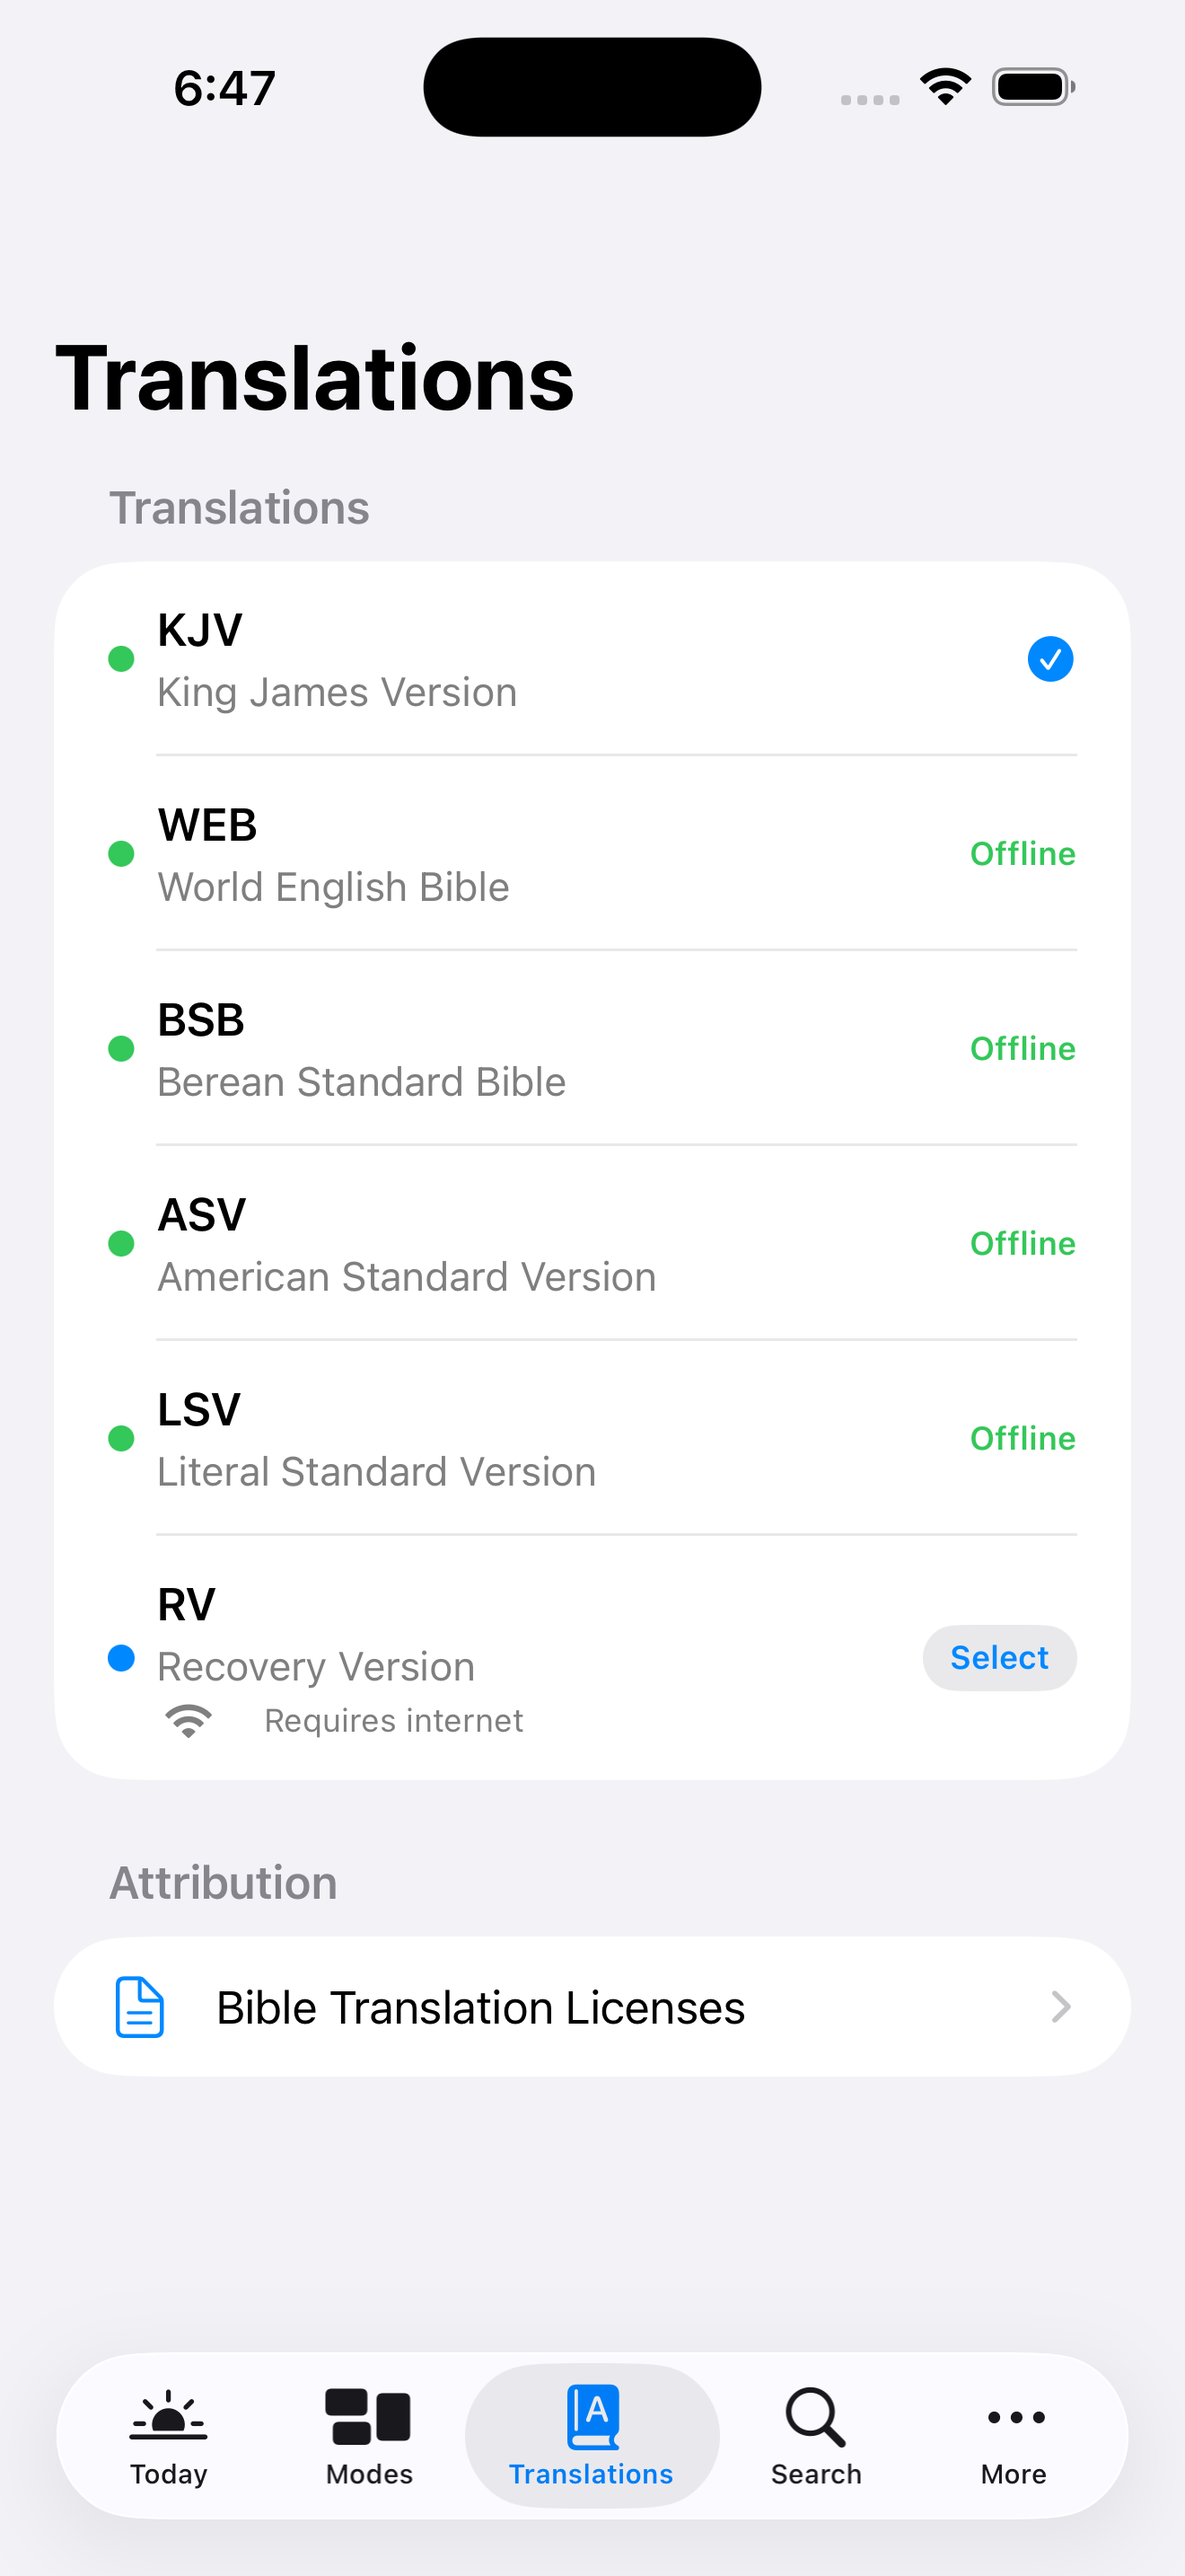
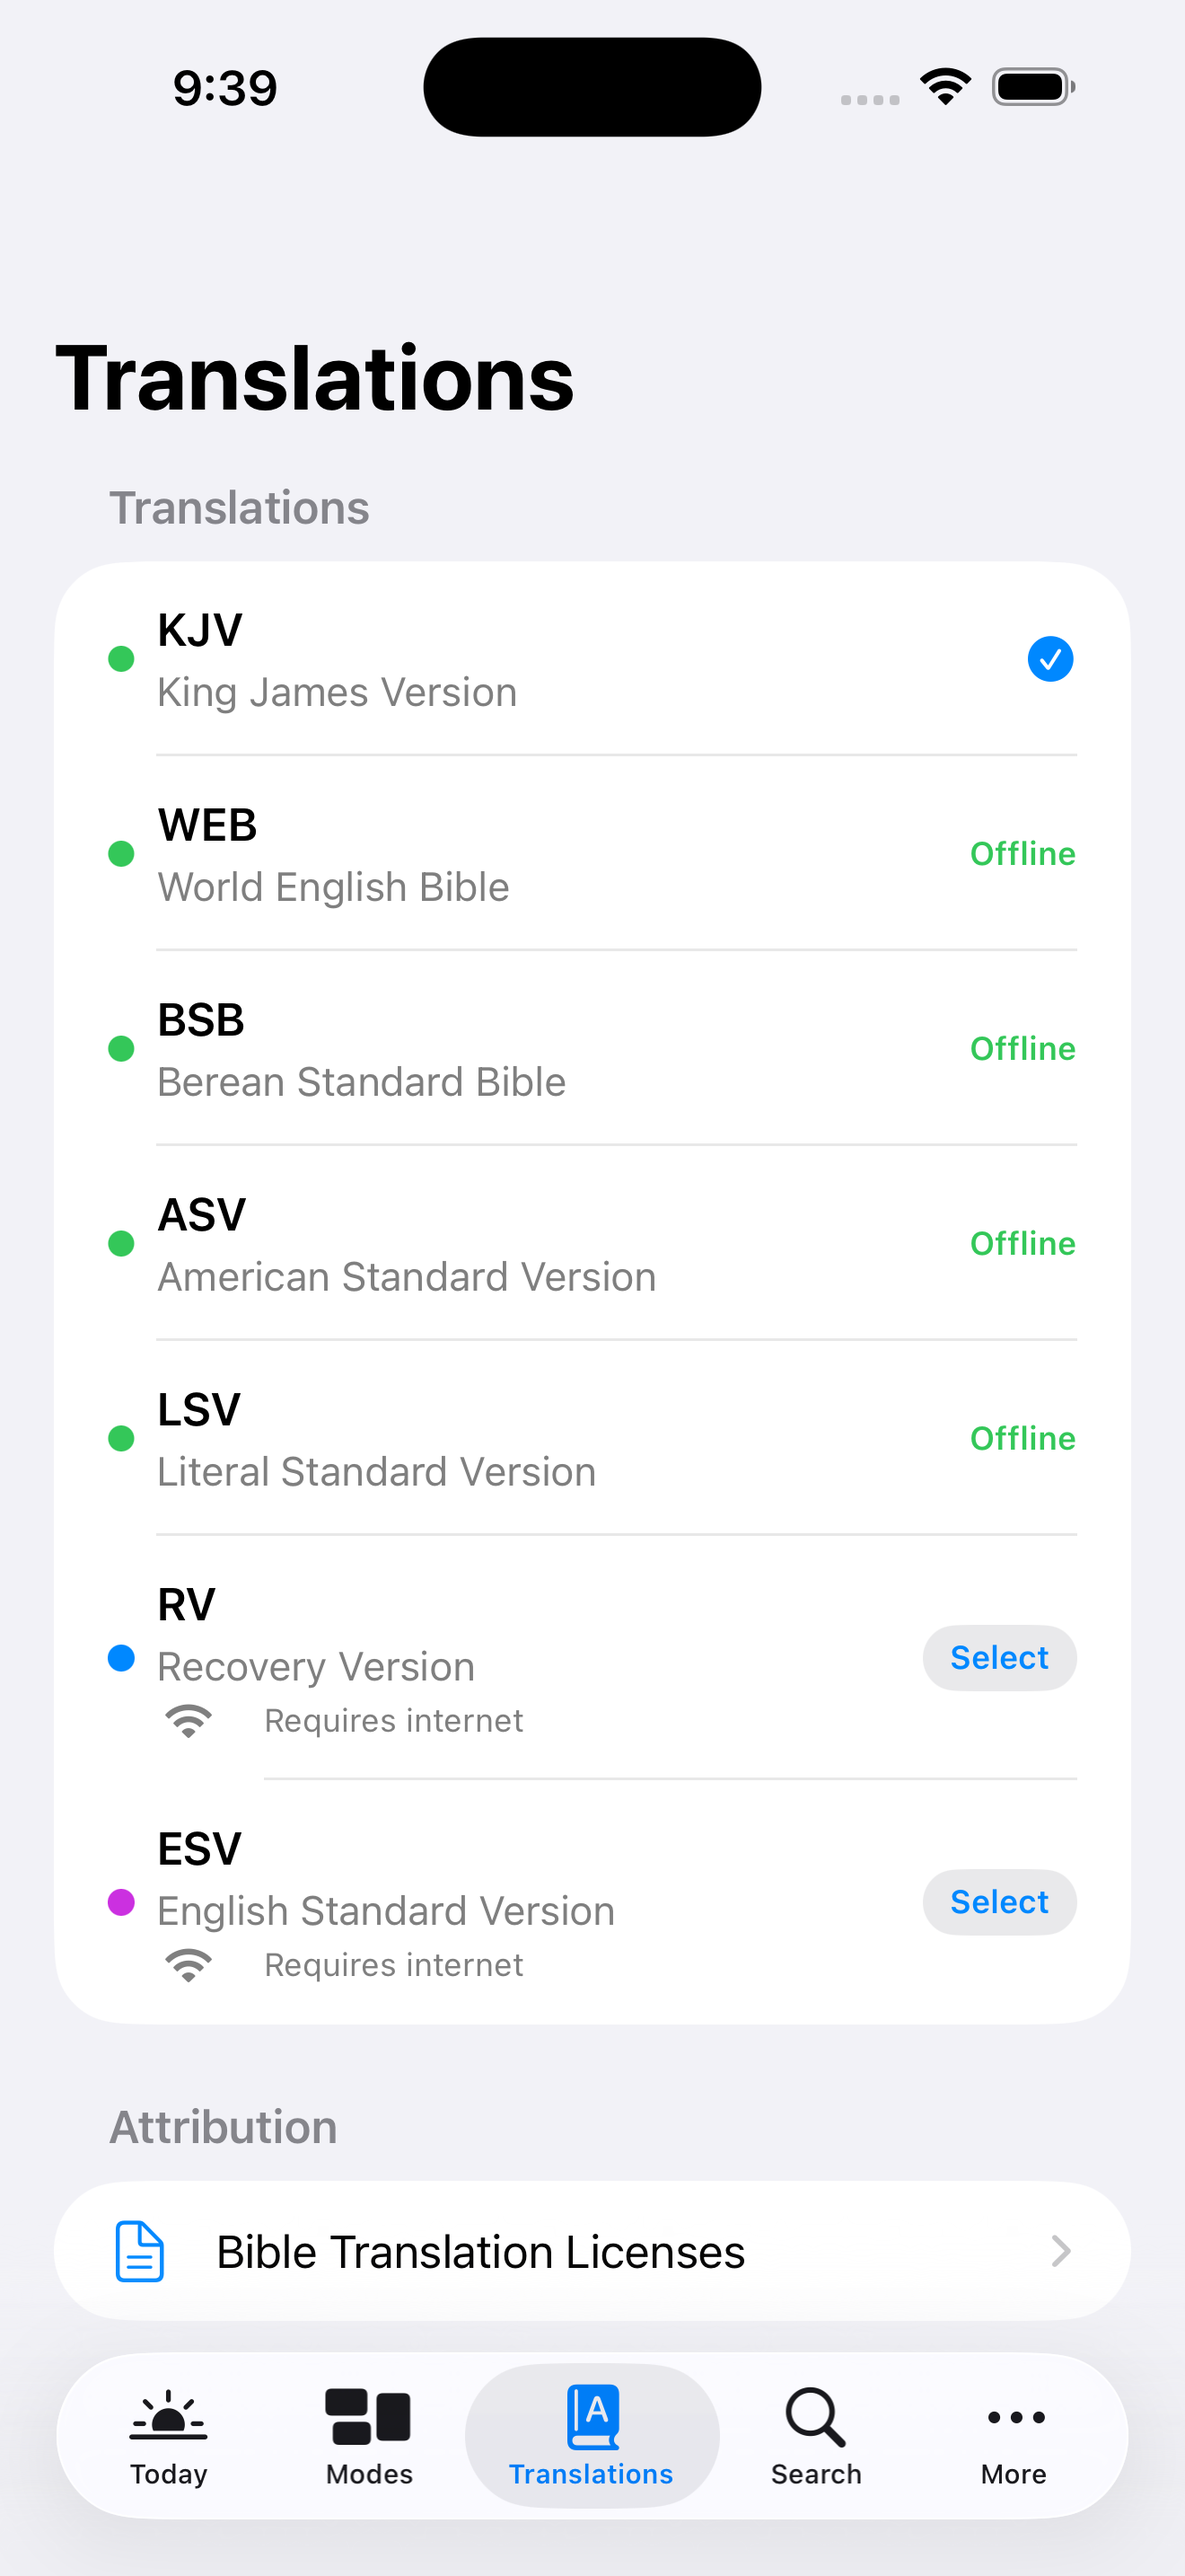
docs: ship ESV - seven translations across listing, site, and screenshots
The ESV key is now set (gitignored Secrets.xcconfig, verified live), so the
ESV row is visible in the app. Restore ESV in the App Store listing (counts,
Live bullet, caching note, status), the home/privacy/support pages, and
re-capture the 6.9" Translations screenshot showing the ESV row.

diff --git a/docs/support.html b/docs/support.html
@@ -1,5 +1,5 @@
-<!-- ESV is hidden at runtime while ESV_API_KEY is unset (ESVBibleService.isConfigured).
-     If the key is added, restore the ESV wording removed here. -->
+<!-- ESV wording assumes ESV_API_KEY is set. Without the key ESVBibleService.isConfigured
+     hides ESV in the app, so remove the ESV mentions here. -->
 <!DOCTYPE html>
 <html lang="en">
 <head>
@@ -155,8 +155,8 @@
       Word Unlocked puts a Bible verse on your iPhone Lock Screen. Pick a mode &mdash;
       Daily Verse, Weekly Theme, Topic, Chapter, Memorization, or Favorites &mdash; and a
       translation, and the widget keeps your Lock Screen updated with scripture. Five
-      translations (KJV, WEB, BSB, ASV, LSV) work fully offline; the Recovery Version
-      fetches live and then caches on your device.
+      translations (KJV, WEB, BSB, ASV, LSV) work fully offline; the English Standard
+      Version and the Recovery Version fetch live and then cache on your device.
     </p>
 
     <section>
@@ -169,17 +169,17 @@
 
       <details>
         <summary>Why isn't my verse updating?</summary>
-        <p>iOS manages exactly when widgets refresh to save battery, so updates aren't always instant. First check Settings in the app to confirm you're in the mode and translation you expect &mdash; modes like Daily Verse, Topic, and Chapter each have their own update or rotation interval. If the Recovery Version is selected, a new verse also requires a network connection the first time it&rsquo;s fetched.</p>
+        <p>iOS manages exactly when widgets refresh to save battery, so updates aren't always instant. First check Settings in the app to confirm you're in the mode and translation you expect &mdash; modes like Daily Verse, Topic, and Chapter each have their own update or rotation interval. If the English Standard Version or the Recovery Version is selected, a new verse also requires a network connection the first time it&rsquo;s fetched.</p>
       </details>
 
       <details>
         <summary>How do I switch translations?</summary>
-        <p>Open the app and go to Settings, then use the Default Translation picker (or the Translations tab to browse all available translations). KJV, WEB, BSB, ASV, and LSV are available immediately since they're bundled offline. Selecting the Recovery Version fetches that verse live the first time, then caches it locally.</p>
+        <p>Open the app and go to Settings, then use the Default Translation picker (or the Translations tab to browse all available translations). KJV, WEB, BSB, ASV, and LSV are available immediately since they're bundled offline. Selecting the English Standard Version or the Recovery Version fetches that verse live the first time, then caches it locally.</p>
       </details>
 
       <details>
         <summary>How does offline mode work?</summary>
-        <p>King James Version, World English Bible, Berean Standard Bible, American Standard Version, and Literal Standard Version are bundled inside the app itself, so no network request is ever made when one of them is selected. The Recovery Version is the only translation that needs a connection, and only at the moment you select it or move to a verse that isn&rsquo;t already cached.</p>
+        <p>King James Version, World English Bible, Berean Standard Bible, American Standard Version, and Literal Standard Version are bundled inside the app itself, so no network request is ever made when one of them is selected. The English Standard Version and the Recovery Version are the only translations that need a connection, and only at the moment you select one or move to a verse that isn&rsquo;t already cached.</p>
       </details>
     </section>
 

diff --git a/docs/privacy.html b/docs/privacy.html
@@ -1,5 +1,5 @@
-<!-- ESV is hidden at runtime while ESV_API_KEY is unset (ESVBibleService.isConfigured).
-     If the key is added, restore the ESV wording removed here. -->
+<!-- ESV wording assumes ESV_API_KEY is set. Without the key ESVBibleService.isConfigured
+     hides ESV in the app, so remove the ESV mentions here. -->
 <!DOCTYPE html>
 <html lang="en">
 <head>
@@ -147,7 +147,7 @@
 <main>
   <div class="wrap">
     <h1>Privacy Policy</h1>
-    <p class="updated">Last updated: August 29, 2026</p>
+    <p class="updated">Last updated: September 12, 2026</p>
 
     <div class="summary">
       <p>Word Unlocked at a glance:</p>
@@ -171,11 +171,13 @@
 
     <section>
       <h2>Network Access</h2>
-      <p>Word Unlocked bundles five Bible translations that work entirely offline. One additional translation is available live, and it only makes a network request when you actually select it.</p>
+      <p>Word Unlocked bundles five Bible translations that work entirely offline. Two additional translations are available live, and each only makes a network request when you actually select it.</p>
 
       <h3>Offline translations</h3>
       <p>King James Version (KJV), World English Bible (WEB), Berean Standard Bible (BSB), American Standard Version (ASV), and Literal Standard Version (LSV) are bundled with the app and stored entirely on your device. No network request is ever made when one of these translations is selected.</p>
 
+      <h3>English Standard Version (ESV)</h3>
+      <p>When the English Standard Version is selected, verses are fetched live from <code>api.esv.org</code>, operated by Crossway, as you read. Up to 500 recently viewed verses are cached locally on your device so they stay available offline &mdash; nothing is sent to any server operated by this app.</p>
 
       <h3>Recovery Version (RV)</h3>
       <p>When the Recovery Version is selected, a live request is made to <code>api.lsm.org</code>, operated by Living Stream Ministry, to fetch the current verse. Only the single most recently fetched verse is cached, locally on your device &mdash; nothing is sent to any server operated by this app.</p>

diff --git a/docs/index.html b/docs/index.html
@@ -1,5 +1,5 @@
-<!-- ESV is hidden at runtime while ESV_API_KEY is unset (ESVBibleService.isConfigured).
-     If the key is added, restore the ESV wording removed here. -->
+<!-- ESV wording assumes ESV_API_KEY is set. Without the key ESVBibleService.isConfigured
+     hides ESV in the app, so remove the ESV mentions here. -->
 <!DOCTYPE html>
 <html lang="en">
 <head>
@@ -176,7 +176,7 @@
       </div>
       <div class="card">
         <h2>Two optional live translations</h2>
-        <p>The Recovery Version can be fetched live when you select it, then cached on your device.</p>
+        <p>The English Standard Version and the Recovery Version are fetched live when you select them, then cached on your device.</p>
       </div>
       <div class="card">
         <h2>Built for the Lock Screen</h2>

diff --git a/marketing/app-store-listing.md b/marketing/app-store-listing.md
@@ -1,10 +1,10 @@
 # Word Unlocked — App Store Listing
 
-> **Copy below describes the app as it currently builds: SIX translations.**
-> ESV is hidden at runtime because `ESV_API_KEY` is unset in `Config/Secrets.xcconfig`
-> (`ESVBibleService.isConfigured` gates the row). If you add the key before submitting,
-> switch every "Six" back to "Seven", re-add the ESV bullet under **Live**, restore the
-> ESV caching sentence, and use the `esv` keyword string in the Keywords section.
+> **Copy below describes the app as it currently builds: SEVEN translations.**
+> `ESV_API_KEY` is set in `Config/Secrets.xcconfig` (verified live against api.esv.org on
+> 2026-09-12). If the key is ever removed, `ESVBibleService.isConfigured` hides ESV at
+> runtime: switch every "Seven" to "Six", drop the ESV bullet under **Live** and its
+> caching sentence, and use the no-`esv` keyword string in the Keywords section.
 > Shipping copy that advertises ESV while the app hides it is a metadata mismatch and a
 > rejection risk.
 
@@ -36,7 +36,7 @@ Wallpaper — no account, no tracking, core experience works completely offline.
 - `Bible verses, private & free` *(28)*
 
 ## Promotional Text  (max 170 chars — editable anytime, no review)
-`Keep a verse in front of you all day. Put Scripture on your Lock Screen, read KJV or WEB completely offline, or choose from 6 translations — no account needed.` *(158)*
+`Keep a verse in front of you all day. Put Scripture on your Lock Screen, read KJV or WEB completely offline, or choose from 7 translations — no account needed.` *(159)*
 
 ---
 
@@ -53,7 +53,7 @@ No account. No sign-up. No internet required. Just Scripture.
 WHY YOU'LL LOVE IT
 • Lock Screen & Home Screen widgets — a verse you see without opening anything
 • A fresh verse every day, or rotate by topic, weekly theme, or chapter
-• Six translations — five completely offline, one live
+• Seven translations — five completely offline, two live
 • KJV and WEB are built in and work 100% offline, no signal needed
 • Private by design — no accounts, no tracking, no ads
 
@@ -68,8 +68,10 @@ Read in the voice that fits you, and switch anytime:
 • Literal Standard Version (LSV) — 31,104 verses, word-for-word
 
 **Live (fetch from the web when you choose)**
+• English Standard Version (ESV) — © Crossway, used by permission
 • Recovery Version (RV) — © Living Stream Ministry, used by permission
-The Recovery Version keeps your most recent verse on hand for the widget.
+ESV keeps up to 500 of your recently read verses available offline; the Recovery
+Version keeps your most recent verse on hand for the widget.
 
 VERSES THAT MEET THE MOMENT
 Pick the rhythm that fits your walk:
@@ -120,8 +122,8 @@ metadata does not advertise a dead translation):
 **Version 1.0**
 Welcome to Word Unlocked! Keep Scripture on your Lock Screen, all day.
 • Lock Screen and Home Screen widgets
-• Six translations: five fully offline (KJV, WEB, BSB, ASV, LSV) plus the Recovery
-  Version via live fetch
+• Seven translations: five fully offline (KJV, WEB, BSB, ASV, LSV) plus ESV and the
+  Recovery Version via live fetch
 • Rotate verses by day, topic, weekly theme, or chapter
 • Memorization mode and Favorites
 • Set as Wallpaper
@@ -132,7 +134,7 @@ Welcome to Word Unlocked! Keep Scripture on your Lock Screen, all day.
 ## Screenshot Captions  (short lines to overlay on screenshots)
 1. `Scripture on your Lock Screen`
 2. `A new verse, every single day`
-3. `Six translations — KJV and WEB fully offline`
+3. `Seven translations — KJV and WEB fully offline`
 4. `Find a verse for how you feel`
 5. `Read by topic, theme, or chapter`
 6. `Set a verse as your wallpaper`
@@ -150,10 +152,8 @@ Welcome to Word Unlocked! Keep Scripture on your Lock Screen, all day.
   enabled at launch, remove it from the translation lists above and update counts
   accordingly ("Seven" → "Six"/"Five", etc.). The app falls back gracefully when
   a live translation's key is missing.
-- ⚠ AS OF 2026-08-29: `LSM_APP_ID` and `LSM_TOKEN` are set, but `ESV_API_KEY` is
-  NOT. ESV therefore ships dead — every fetch no-ops behind the empty-key guard in
-  ESVBibleService. Either add the key before submitting, or drop ESV from the
-  description, the keyword list, and the screenshot captions.
+- AS OF 2026-09-12: `LSM_APP_ID`, `LSM_TOKEN` and `ESV_API_KEY` are all set; the ESV
+  key was verified with a live request to api.esv.org. All seven translations ship.
 
 **Future additions (not in v1.0):**
 - NIV, NKJV, NLT: These require per-publisher approval on the YouVersion Platform

diff --git a/HANDOFF.md b/HANDOFF.md
@@ -7,8 +7,17 @@ Done this session: **repo made public** (user's choice, history secret-scanned c
 support.html — put these two in App Store Connect), **contact email aligned to
 privacy@rippre.com everywhere** (docs edited to match the app; user confirmed they keep
 that mailbox), **nine 6.9" screenshots** at `marketing/screenshots/6.9/` (1320×2868,
-committed). Tests still 41/41 green. Still blocked on user: Apple signing (item 1),
-ESV key (item 2 — signup page opened at api.esv.org), ASC record creation (item 6).
+committed).
+
+**ESV is ON.** The key is in the gitignored `Secrets.xcconfig` (verified with a live
+api.esv.org request; never commit it — the repo is public). Listing, docs and the
+Translations screenshot now say seven translations; the listing banner says how to flip
+back. `ESVBibleService` takes its key via `init(apiKey:)`: unit tests run inside the app
+(TEST_HOST), so the old "no key" tests broke once the key existed and would have hit the
+network. Tests 41/41 green with the key.
+
+Still blocked on user: Apple signing (item 1) and ASC record creation (item 6). Items 2
+(ESV key), 3 (screenshots), 4 (Pages) and 5 (email) below are done.
 
 Written 2026-09-01, end of the migration-audit + ship-readiness session. Everything
 below is committed and pushed: `main` = `d078d61`, in sync with
